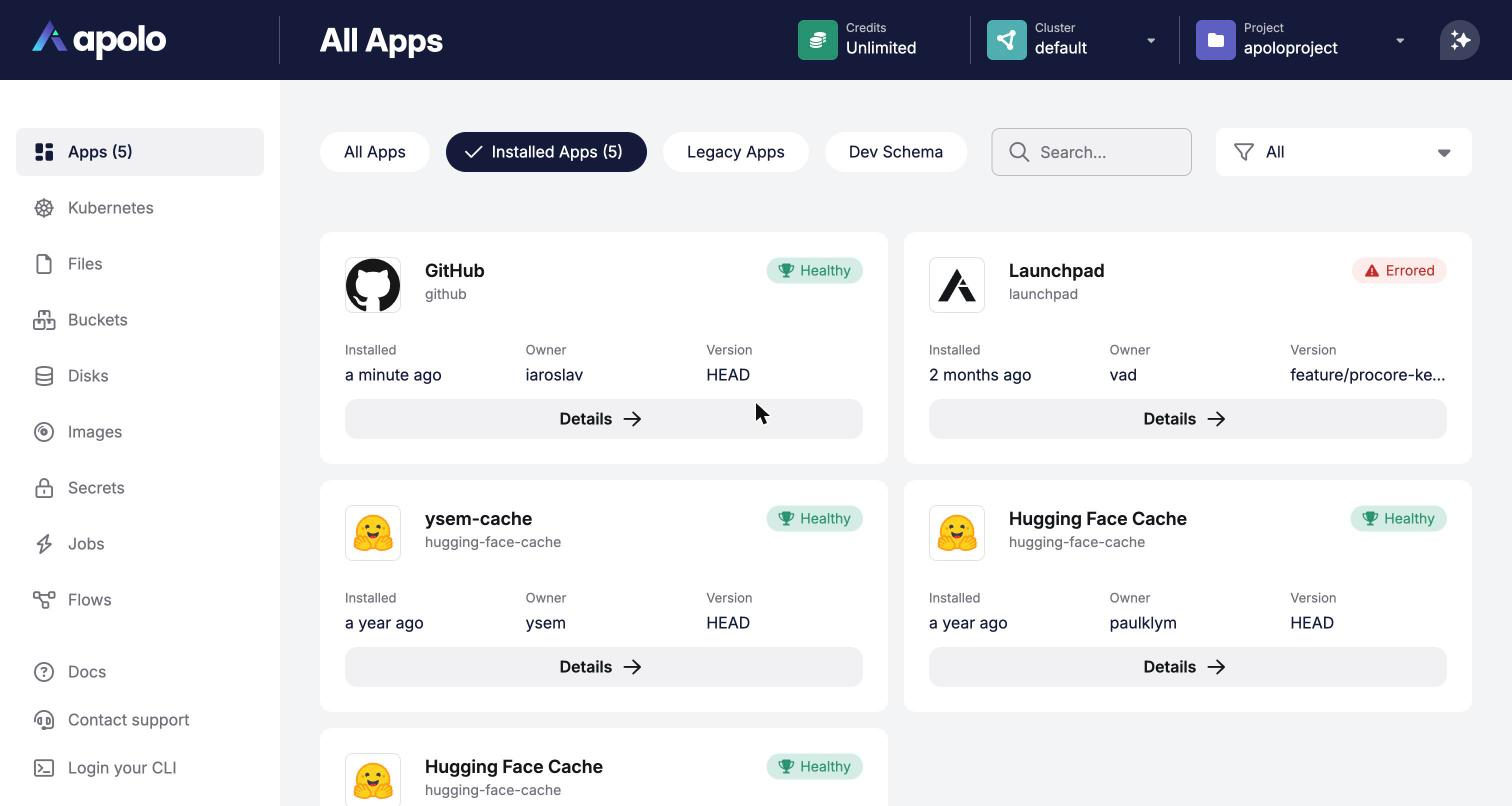
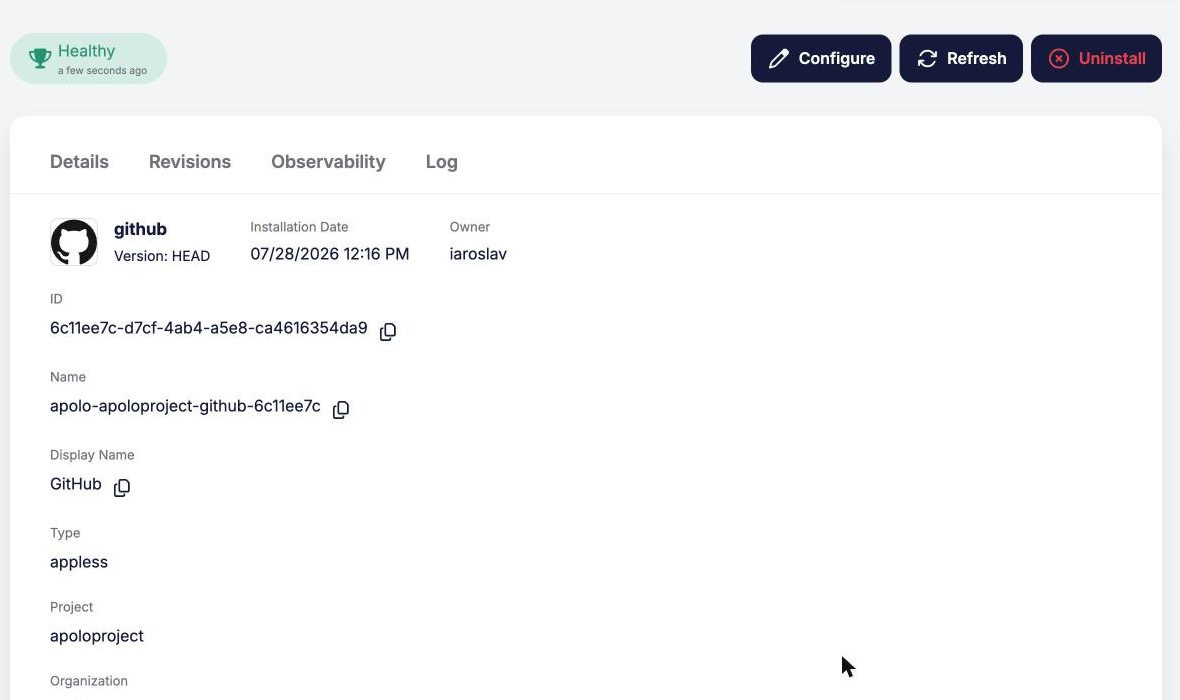
IT-56: cleaner screenshots (filtered catalog, cropped forms and details)

diff --git a/docs/apolo-console/apps/installable-apps/available-apps/github.md b/docs/apolo-console/apps/installable-apps/available-apps/github.md
@@ -24,7 +24,7 @@ apolo secret add github-pat <your-token>
 
 1. Access the Apolo Console, go to the **Apps** section and select the **GitHub** application.
 
-<figure><img src="../../../../.gitbook/assets/github-app-catalog.jpg" alt=""><figcaption><p>GitHub application in the apps catalog</p></figcaption></figure>
+<figure><img src="../../../../.gitbook/assets/github-app-catalog.png" alt=""><figcaption><p>GitHub application in the apps catalog</p></figcaption></figure>
 2. Configure the two credential groups:
 
 * **GitHub Auth**
@@ -35,9 +35,9 @@ apolo secret add github-pat <your-token>
   * **Registry Host** — leave the default `ghcr.io` for github.com; for GitHub Enterprise Server use `containers.HOSTNAME`.
   * **Username** and **GitHub Personal Access Token** — same as above.
 
-<figure><img src="../../../../.gitbook/assets/github-app-install-auth.jpg" alt=""><figcaption><p>GitHub Auth configuration</p></figcaption></figure>
+<figure><img src="../../../../.gitbook/assets/github-app-install-auth.png" alt=""><figcaption><p>GitHub Auth configuration</p></figcaption></figure>
 
-<figure><img src="../../../../.gitbook/assets/github-app-install-registry.jpg" alt=""><figcaption><p>Personal access token and registry host</p></figcaption></figure>
+<figure><img src="../../../../.gitbook/assets/github-app-install-registry.png" alt=""><figcaption><p>Personal access token and registry host</p></figcaption></figure>
 
 3. Set the application display name and install. The app becomes **healthy** right away — there is nothing to deploy.
 
